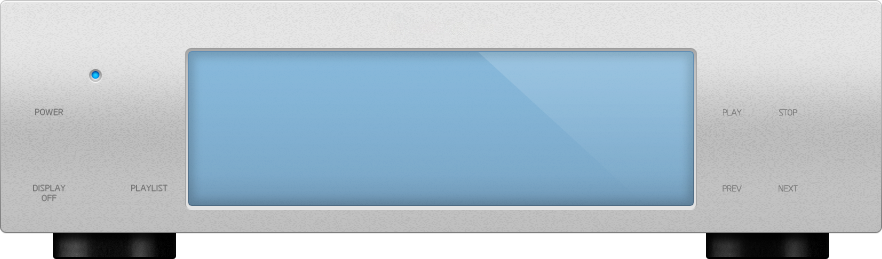
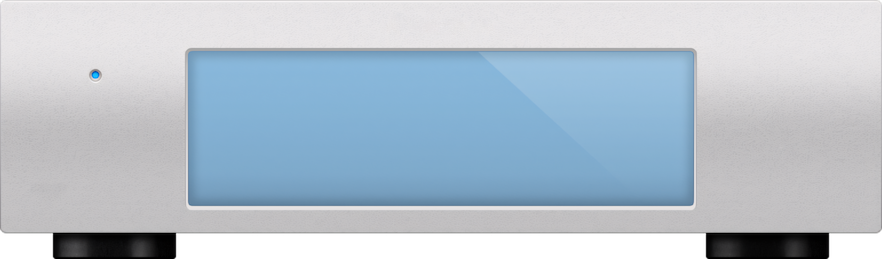
Use text for button labels

diff --git a/Application/AppController.m b/Application/AppController.m
@@ -1152,6 +1152,34 @@
         [masterDeviceVolumeMinus setHidden:YES];
     }
 
+    NSAttributedString* buttonText = [[NSAttributedString alloc] initWithString:@"POWER" attributes:volumeStringAttributes];
+    [powerText setAttributedStringValue:buttonText];
+    [buttonText release];
+
+    buttonText = [[NSAttributedString alloc] initWithString:@"DISPLAY\nOFF" attributes:volumeStringAttributes];
+    [displayOffText setAttributedStringValue:buttonText];
+    [buttonText release];
+
+    buttonText = [[NSAttributedString alloc] initWithString:@"PLAYLIST" attributes:volumeStringAttributes];
+    [playlistText setAttributedStringValue:buttonText];
+    [buttonText release];
+
+    buttonText = [[NSAttributedString alloc] initWithString:@"PREV" attributes:volumeStringAttributes];
+    [prevText setAttributedStringValue:buttonText];
+    [buttonText release];
+
+    buttonText = [[NSAttributedString alloc] initWithString:@"PLAY" attributes:volumeStringAttributes];
+    [playText setAttributedStringValue:buttonText];
+    [buttonText release];
+
+    buttonText = [[NSAttributedString alloc] initWithString:@"STOP" attributes:volumeStringAttributes];
+    [stopText setAttributedStringValue:buttonText];
+    [buttonText release];
+
+    buttonText = [[NSAttributedString alloc] initWithString:@"NEXT" attributes:volumeStringAttributes];
+    [nextText setAttributedStringValue:buttonText];
+    [buttonText release];
+
     [volumeStringAttributes release];
     [plusMinusStringAttributes release];
 }
@@ -1803,7 +1831,10 @@
     case kAUDUIBlackTheme: {
         [parentWindow setBackgroundColor:[NSColor clearColor]];
         [[parentWindow contentView] setWantsLayer:YES];
-        [[parentWindow contentView] layer].contents = [NSImage imageNamed:@"Black_PlayerWin_mainWindowBackground.png"];
+        NSImage* bgImage = [NSImage imageNamed:@"Black_PlayerWin_mainWindowBackground"];
+        CGImageRef cgImage = [bgImage CGImageForProposedRect:NULL context:nil hints:nil];
+        [[parentWindow contentView] layer].contents = (__bridge id)cgImage;
+        [[parentWindow contentView] layer].contentsScale = [parentWindow backingScaleFactor];
 
         NSImage* iconImage = [NSImage imageNamed:@"DurianBlackAppIcon"];
         [NSApp setApplicationIconImage:iconImage];
@@ -1874,7 +1905,10 @@
     default: {
         [parentWindow setBackgroundColor:[NSColor clearColor]];
         [[parentWindow contentView] setWantsLayer:YES];
-        [[parentWindow contentView] layer].contents = [NSImage imageNamed:@"Silver_PlayerWin_mainWindowBackground.png"];
+        NSImage* bgImage = [NSImage imageNamed:@"Silver_PlayerWin_mainWindowBackground"];
+        CGImageRef cgImage = [bgImage CGImageForProposedRect:NULL context:nil hints:nil];
+        [[parentWindow contentView] layer].contents = (__bridge id)cgImage;
+        [[parentWindow contentView] layer].contentsScale = [parentWindow backingScaleFactor];
 
         NSImage* iconImage = [NSImage imageNamed:@"DurianAppIcon"];
         [NSApp setApplicationIconImage:iconImage];

diff --git a/Application/AppController.h b/Application/AppController.h
@@ -40,6 +40,9 @@ typedef struct {
     IBOutlet NSButton* powerButton;
     IBOutlet NSButton* displayOffButton;
     IBOutlet NSButton* togglePlaylistButton;
+    IBOutlet NSTextField* powerText;
+    IBOutlet NSTextField* displayOffText;
+    IBOutlet NSTextField* playlistText;
 
     IBOutlet NSTextField* songCurrentPlayingTime;
     IBOutlet NSSlider* songCurrentPlayingPosition;
@@ -55,6 +58,10 @@ typedef struct {
     IBOutlet NSButton* stopButton;
     IBOutlet NSButton* prevButton;
     IBOutlet NSButton* nextButton;
+    IBOutlet NSTextField* playText;
+    IBOutlet NSTextField* stopText;
+    IBOutlet NSTextField* prevText;
+    IBOutlet NSTextField* nextText;
 
     IBOutlet NSButton* playRepeatButton;
     IBOutlet NSButton* playShuffleButton;
